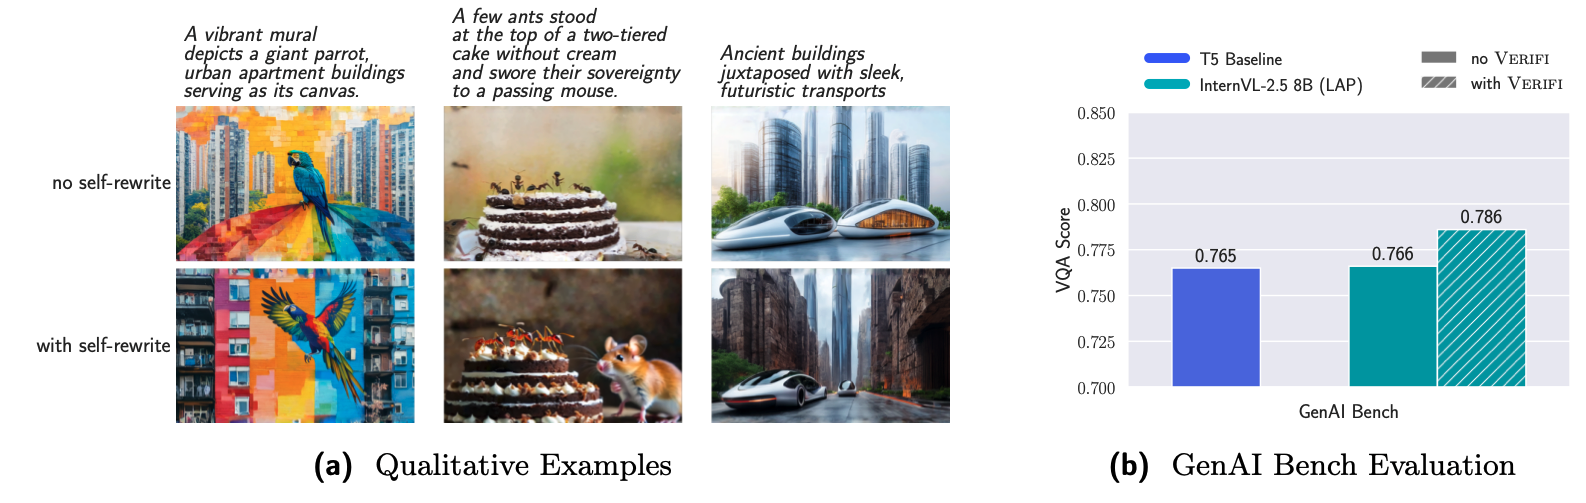
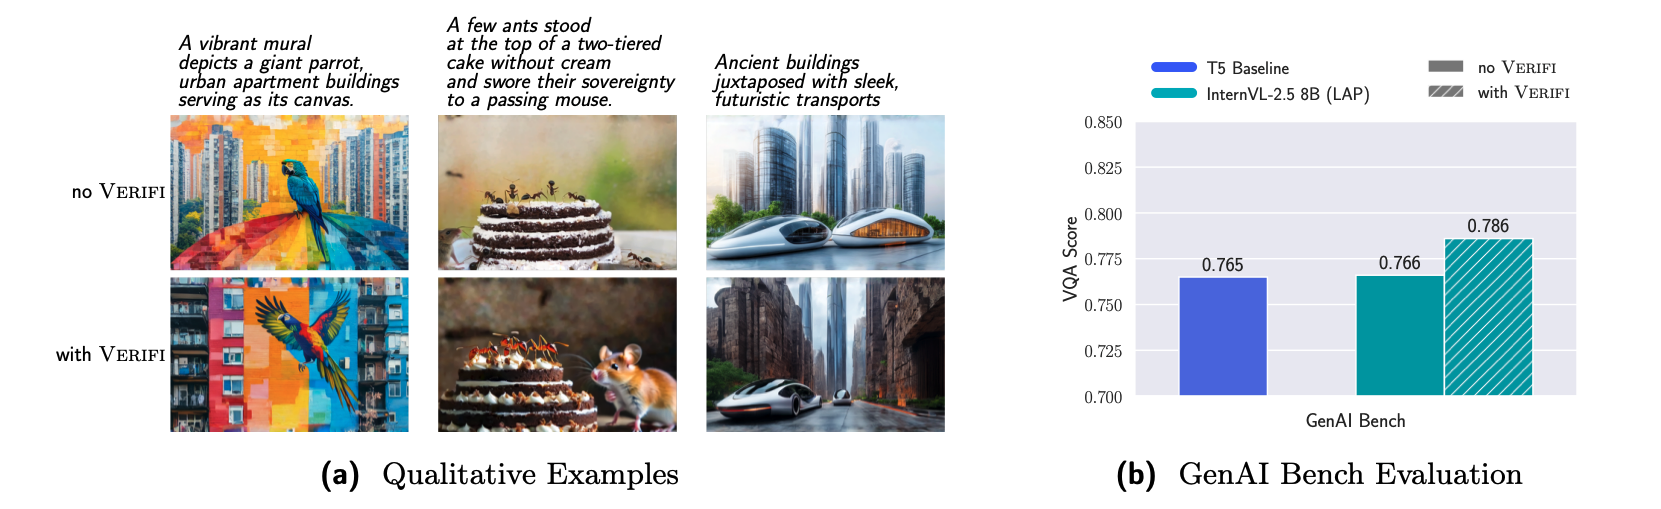
updated unifusion design choices

diff --git a/index.html b/index.html
@@ -317,13 +317,6 @@
             <!-- We propose VLM-Enabled Rewriting Injection with Flexibile Inference (VERIFI), which conditions a diffusion transformer (DiT) only on the text tokens generated by the VLM during in-model prompt rewriting. VERIFI combines the alignment of the conditioning distribution with the VLM's reasoning capabilities for increased capabilities and flexibility at inference.  -->
             With an 8B VLM and an 8B DiT, UniFusion surpasses Flux.1 [dev] and BAGEL on DPG-Bench with a smaller training set, while comparing favorably against Flux.1 Kontext [dev] and Qwen-Image-Edit in editing tasks without any post-training. We further discovered that editing task not only improves text-image alignment for generation, indicative of cross-modality knowledge transfer, but also exhibits tremendous generalization capabilities -- the UniFusion checkpoint trained on single-image reference could generalize zero-shot to multi-reference inputs, further motivating the unified encoder design of UniFusion.
           </p>
-
-          <!-- <p>
-            Specifically, we derive a closed-form solution for a 2D Gaussian-to-hologram transform that supports 
-            occlusions and alpha blending. Inspired by classic computer graphics techniques, we also derive an efficient 
-            approximation of the aforementioned process in the Fourier domain that is easily parallelizable and 
-            implement it using custom CUDA kernels. 
-          </p> -->
         </div>
       </div>
     </div>
@@ -361,29 +354,39 @@
     </div>
     <div class="content has-text-justified">
       <p>
-        Lorem ipsum dolor sit amet, consectetur adipiscing elit. Maecenas tincidunt auctor tortor non viverra. Phasellus elit arcu, iaculis eget bibendum id, ultricies sed risus. Etiam ut est a nisl hendrerit vehicula euismod in purus. Vestibulum et dapibus est. Ut in mauris tempor justo tincidunt congue sit amet quis ipsum. Etiam dapibus nisi risus, ut ornare velit suscipit in. Cras consectetur rutrum magna, et rutrum velit pharetra fermentum. Aenean pulvinar accumsan justo quis scelerisque. Vivamus varius in diam in ullamcorper. Vestibulum porta elementum dolor vel lacinia.
+        One of the motivations for LAP was high-level semantics and low-level concepts are dispersed across different layers, all of which are useful for the downstream image generation model. Our intuition was confirmed as we visualize query-key activation norms in a trained LAP module, where different tokens activate different VLM layers, and on many tokens, the model utilizes implicit clusters of adjacent layers. Given this observation, along with VLM layers cosine-similarity plot (shown in paper), we decided to subsample every N layers (e.g. N=3) from the VLM as input to LAP in the final UniFusion architecture, so as to reduce memory overhead and mitigate the chance of model overfitting to certain local cluster of layers and fail to incorporate all useful information. 
+        <!-- Lorem ipsum dolor sit amet, consectetur adipiscing elit. Maecenas tincidunt auctor tortor non viverra. Phasellus elit arcu, iaculis eget bibendum id, ultricies sed risus. Etiam ut est a nisl hendrerit vehicula euismod in purus. Vestibulum et dapibus est. Ut in mauris tempor justo tincidunt congue sit amet quis ipsum. Etiam dapibus nisi risus, ut ornare velit suscipit in. Cras consectetur rutrum magna, et rutrum velit pharetra fermentum. Aenean pulvinar accumsan justo quis scelerisque. Vivamus varius in diam in ullamcorper. Vestibulum porta elementum dolor vel lacinia. -->
       </p>
       <div class="content has-text-centered">
         <img src="./static/images/layer_dropout.png" style="width: 100%;">
       </div>
       <p>
-        Lorem ipsum dolor sit amet, consectetur adipiscing elit. Maecenas tincidunt auctor tortor non viverra. Phasellus elit arcu, iaculis eget bibendum id, ultricies sed risus. Etiam ut est a nisl hendrerit vehicula euismod in purus. Vestibulum et dapibus est. Ut in mauris tempor justo tincidunt congue sit amet quis ipsum. Etiam dapibus nisi risus, ut ornare velit suscipit in. Cras consectetur rutrum magna, et rutrum velit pharetra fermentum. Aenean pulvinar accumsan justo quis scelerisque. Vivamus varius in diam in ullamcorper. Vestibulum porta elementum dolor vel lacinia.
+        In addition to activation analysis, we did a layer dropout study before LAP to understand the influence of each VLM layer on the visual output. We observe that image generation does not strongly rely on the first and last layers. When zeroing out the respective weights during pooling, the image composition remains mostly unchanged. Interestingly, dropping out the middle layers breaks the prompt understanding but does not generate complete noise. Instead, early / late layers retained low-level concepts like "mountain" in the example of the top row.
       </p>
       <div class="content has-text-centered">
         <img src="./static/images/image_recon_metrics.png" style="width: 100%;">
       </div>
       <p>
-        Lorem ipsum dolor sit amet, consectetur adipiscing elit. Maecenas tincidunt auctor tortor non viverra. Phasellus elit arcu, iaculis eget bibendum id, ultricies sed risus. Etiam ut est a nisl hendrerit vehicula euismod in purus. Vestibulum et dapibus est. Ut in mauris tempor justo tincidunt congue sit amet quis ipsum. Etiam dapibus nisi risus, ut ornare velit suscipit in. Cras consectetur rutrum magna, et rutrum velit pharetra fermentum. Aenean pulvinar accumsan justo quis scelerisque. Vivamus varius in diam in ullamcorper. Vestibulum porta elementum dolor vel lacinia.
+        Can VLM layers reconstruct images? To answer this question, we included a small percentage of image reconstruction batches (roughly 3%) from VLM encoded images tiles, during text-to-image training stage of UniFusion. The result indicates that not only can VLM layers reconstruct images, there exists a clear scaling trend as the number of <em>tiles</em> increases - global structure can be captured with just 1 thumbnail tile, while fine-grained details require more tiles to retrain. Interestingly, even when UniFusion is <em>not trained</em> with image reconstruction batches in early experiments, at test-time when a VLM-encoded image is provided, the downstream DiT generates visually similar images.  
+        <!-- Lorem ipsum dolor sit amet, consectetur adipiscing elit. Maecenas tincidunt auctor tortor non viverra. Phasellus elit arcu, iaculis eget bibendum id, ultricies sed risus. Etiam ut est a nisl hendrerit vehicula euismod in purus. Vestibulum et dapibus est. Ut in mauris tempor justo tincidunt congue sit amet quis ipsum. Etiam dapibus nisi risus, ut ornare velit suscipit in. Cras consectetur rutrum magna, et rutrum velit pharetra fermentum. Aenean pulvinar accumsan justo quis scelerisque. Vivamus varius in diam in ullamcorper. Vestibulum porta elementum dolor vel lacinia. -->
       </p>
       <div class="content has-text-centered">
         <img src="./static/images/verifi.png" style="width: 100%;">
       </div>
       <p>
-        <strong>UniFusion</strong> achieves competitive performance on DPG-Bench against much larger models trained on more data. We report average and best generation across four seeds at 1024px resolution. Macro Average is taken as mean over scores per category, whereas Micro averages scores across all prompts. Results are scored by Gemma-3-27B with extensive CoT to reduce hallucinations in scoring.
+        UniFusion intentionally does not train with user input prompt for most batches. Instead, we propose <strong>VLM-Enabled Rewriting Injection with Flexible Inference</strong> (VeriFi), which comes with 3 significant benefits:
+        <ul>
+          <li>Different from standalone rewriter models, VeriFi perform a single forward pass without re-encoding, which means the decoded text still attends to image and text inputs directly, aligning features between modalities better and grounding potential hallucination. </li>
+          <li> Repetition of important tokens from the original prompt further mitigates "position biases" in causal attention - later tokens have less activation products. </li>
+          <li>While using the same system prompt during training, we can meaningfullly influence the model's behavior by adopting a different system prompt during inference.</li>
+        </ul>
       </p>
       <div class="content has-text-centered">
         <img src="./static/images/t2i_dpg_bench.png" style="width: 80%;">
       </div>
+      <p>
+        <strong>UniFusion</strong> achieves competitive performance on DPG-Bench against much larger models trained on more data. We report average and best generation across four seeds at 1024px resolution. Macro Average is taken as mean over scores per category, whereas Micro averages scores across all prompts. Results are scored by Gemma-3-27B with extensive CoT to reduce hallucinations in scoring.
+      </p>
     </div>
   </div>
 </div>
